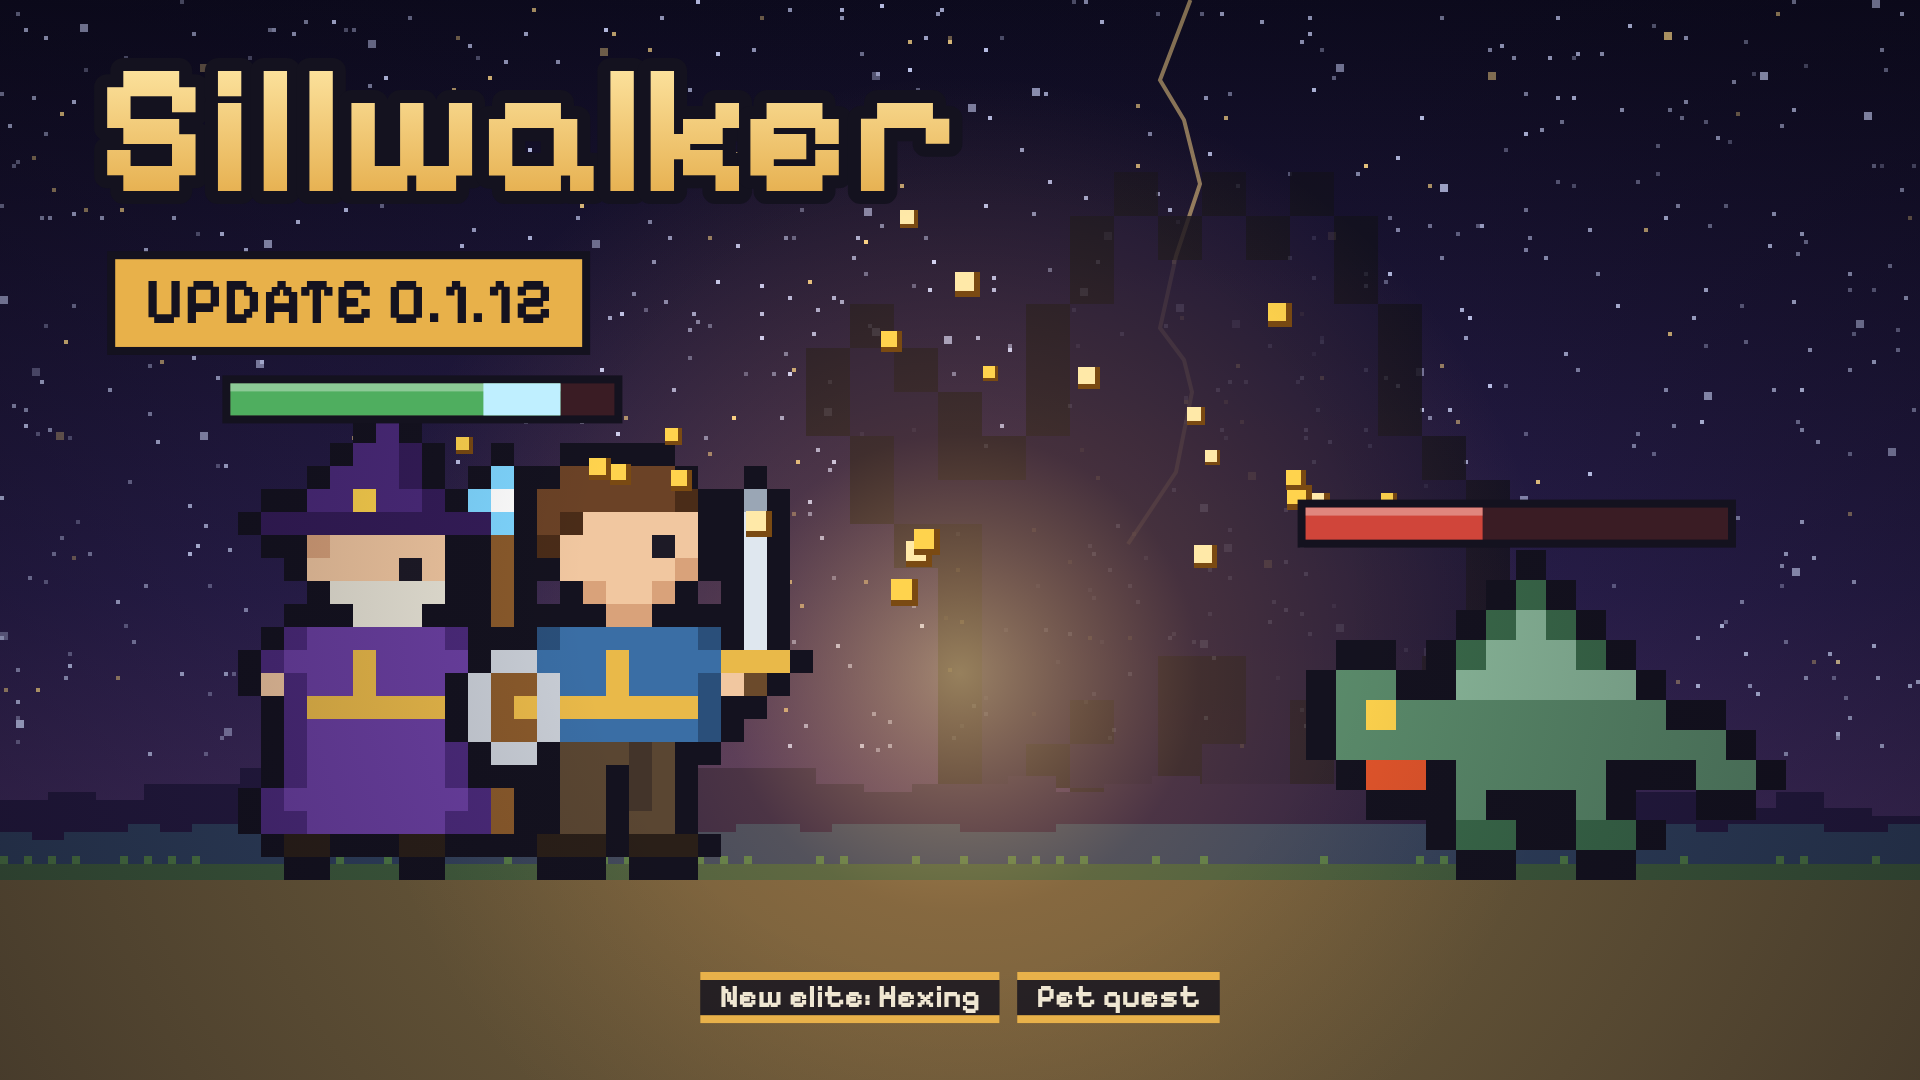
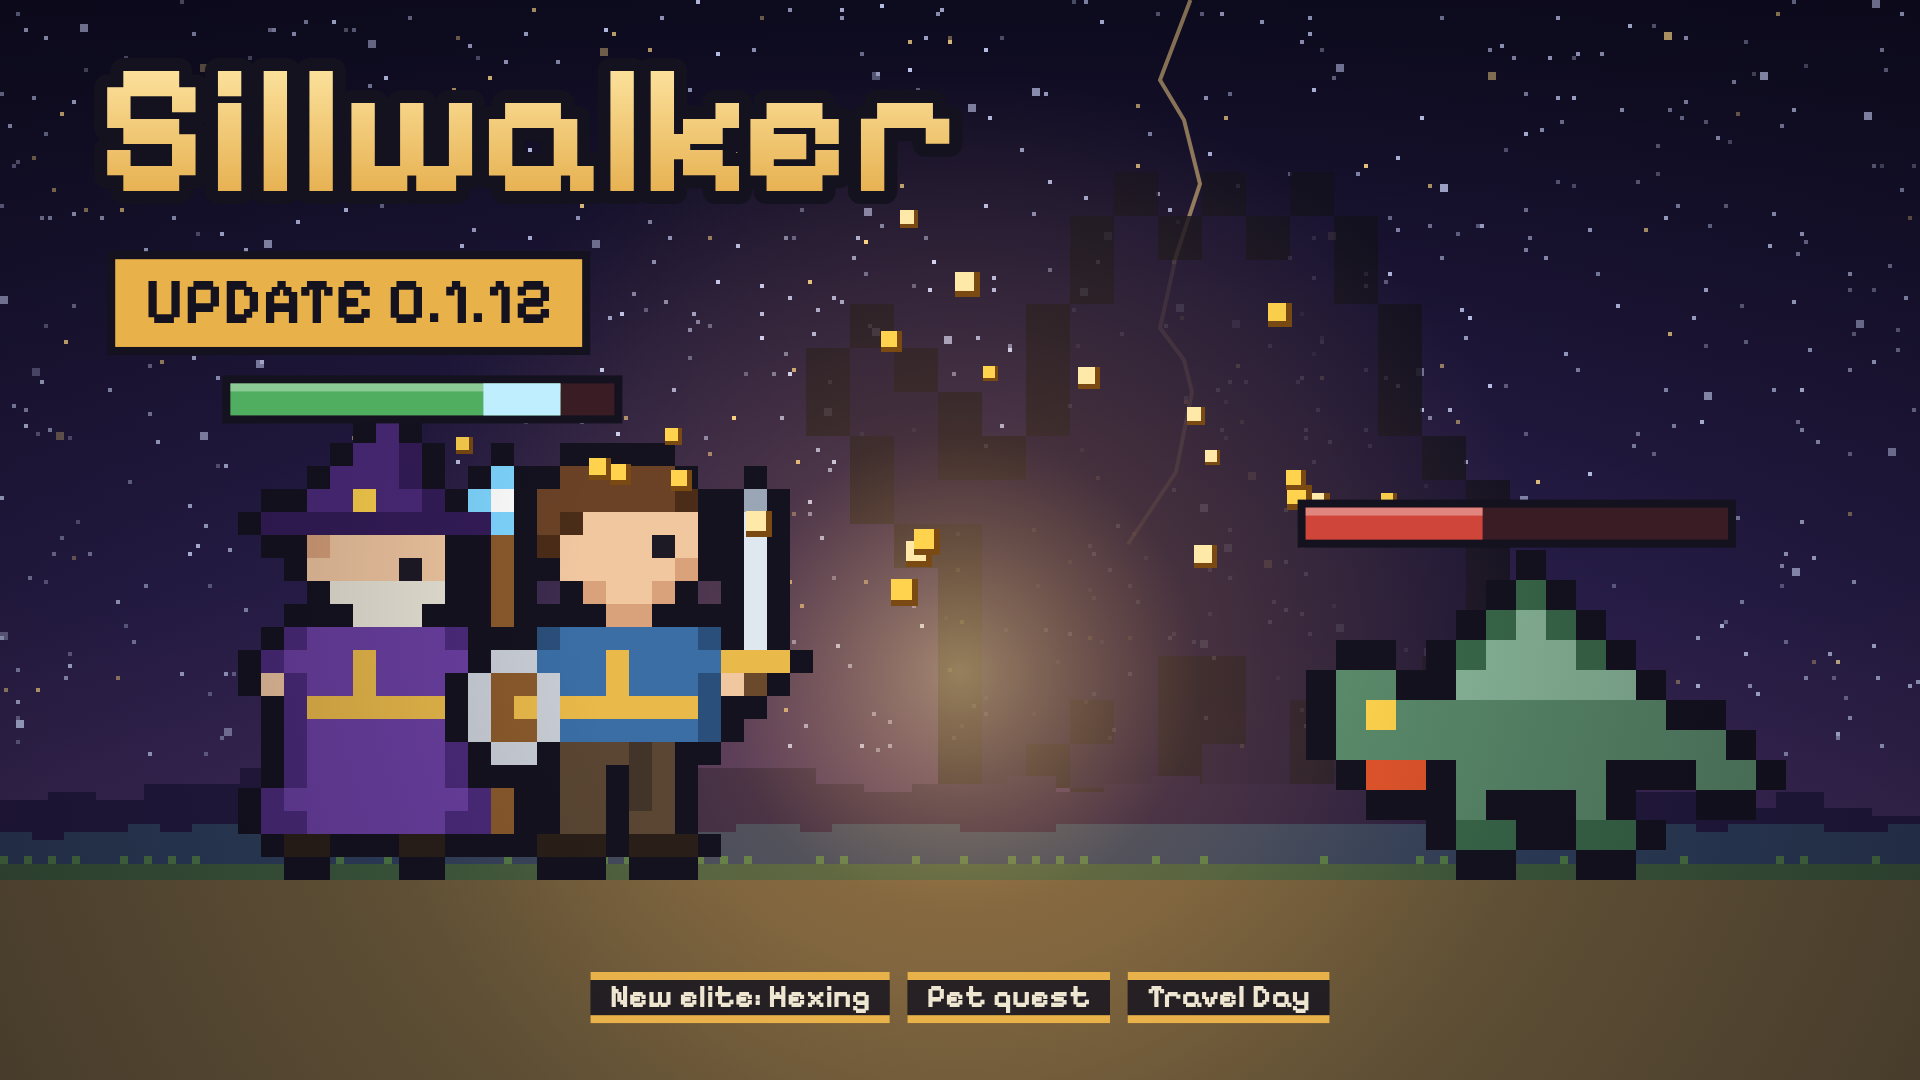
Quoi de neuf (it. 3347) : édition 198, préparation 0.1.12
Claude-Session: https://claude.ai/code/session_01BoV1hVHohF69q4PDskLo8j

Changed region(s): [[0.2812, 0.8861, 0.7188, 0.9472]]

diff --git a/src/renderer/game/news.js b/src/renderer/game/news.js
@@ -952,7 +952,10 @@ const EDITION_196 = [
 const EDITION_197 = [
   "Nouvelle élite, le Maléfique : ses coups peuvent maudire le héros, qui subit alors 15 % de dégâts en plus pendant 3 secondes (la pureté raccourcit la malédiction).",
 ];
-export const NEWS_EDITIONS = [EDITION_1, EDITION_2, EDITION_3, EDITION_4, EDITION_5, EDITION_6, EDITION_7, EDITION_8, EDITION_9, EDITION_10, EDITION_11, EDITION_12, EDITION_13, EDITION_14, EDITION_15, EDITION_16, EDITION_17, EDITION_18, EDITION_19, EDITION_20, EDITION_21, EDITION_22, EDITION_23, EDITION_24, EDITION_25, EDITION_26, EDITION_27, EDITION_28, EDITION_29, EDITION_30, EDITION_31, EDITION_32, EDITION_33, EDITION_34, EDITION_35, EDITION_36, EDITION_37, EDITION_38, EDITION_39, EDITION_40, EDITION_41, EDITION_42, EDITION_43, EDITION_44, EDITION_45, EDITION_46, EDITION_47, EDITION_48, EDITION_49, EDITION_50, EDITION_51, EDITION_52, EDITION_53, EDITION_54, EDITION_55, EDITION_56, EDITION_57, EDITION_58, EDITION_59, EDITION_60, EDITION_61, EDITION_62, EDITION_63, EDITION_64, EDITION_65, EDITION_66, EDITION_67, EDITION_68, EDITION_69, EDITION_70, EDITION_71, EDITION_72, EDITION_73, EDITION_74, EDITION_75, EDITION_76, EDITION_77, EDITION_78, EDITION_79, EDITION_80, EDITION_81, EDITION_82, EDITION_83, EDITION_84, EDITION_85, EDITION_86, EDITION_87, EDITION_88, EDITION_89, EDITION_90, EDITION_91, EDITION_92, EDITION_93, EDITION_94, EDITION_95, EDITION_96, EDITION_97, EDITION_98, EDITION_99, EDITION_100, EDITION_101, EDITION_102, EDITION_103, EDITION_104, EDITION_105, EDITION_106, EDITION_107, EDITION_108, EDITION_109, EDITION_110, EDITION_111, EDITION_112, EDITION_113, EDITION_114, EDITION_115, EDITION_116, EDITION_117, EDITION_118, EDITION_119, EDITION_120, EDITION_121, EDITION_122, EDITION_123, EDITION_124, EDITION_125, EDITION_126, EDITION_127, EDITION_128, EDITION_129, EDITION_130, EDITION_131, EDITION_132, EDITION_133, EDITION_134, EDITION_135, EDITION_136, EDITION_137, EDITION_138, EDITION_139, EDITION_140, EDITION_141, EDITION_142, EDITION_143, EDITION_144, EDITION_145, EDITION_146, EDITION_147, EDITION_148, EDITION_149, EDITION_150, EDITION_151, EDITION_152, EDITION_153, EDITION_154, EDITION_155, EDITION_156, EDITION_157, EDITION_158, EDITION_159, EDITION_160, EDITION_161, EDITION_162, EDITION_163, EDITION_164, EDITION_165, EDITION_166, EDITION_167, EDITION_168, EDITION_169, EDITION_170, EDITION_171, EDITION_172, EDITION_173, EDITION_174, EDITION_175, EDITION_176, EDITION_177, EDITION_178, EDITION_179, EDITION_180, EDITION_181, EDITION_182, EDITION_183, EDITION_184, EDITION_185, EDITION_186, EDITION_187, EDITION_188, EDITION_189, EDITION_190, EDITION_191, EDITION_192, EDITION_193, EDITION_194, EDITION_195, EDITION_196, EDITION_197];
+const EDITION_198 = [
+  "Nouvelle bénédiction du jour, le « Jour des voyages » : les expéditions de tes familiers durent deux fois moins longtemps ce jour-là.",
+];
+export const NEWS_EDITIONS = [EDITION_1, EDITION_2, EDITION_3, EDITION_4, EDITION_5, EDITION_6, EDITION_7, EDITION_8, EDITION_9, EDITION_10, EDITION_11, EDITION_12, EDITION_13, EDITION_14, EDITION_15, EDITION_16, EDITION_17, EDITION_18, EDITION_19, EDITION_20, EDITION_21, EDITION_22, EDITION_23, EDITION_24, EDITION_25, EDITION_26, EDITION_27, EDITION_28, EDITION_29, EDITION_30, EDITION_31, EDITION_32, EDITION_33, EDITION_34, EDITION_35, EDITION_36, EDITION_37, EDITION_38, EDITION_39, EDITION_40, EDITION_41, EDITION_42, EDITION_43, EDITION_44, EDITION_45, EDITION_46, EDITION_47, EDITION_48, EDITION_49, EDITION_50, EDITION_51, EDITION_52, EDITION_53, EDITION_54, EDITION_55, EDITION_56, EDITION_57, EDITION_58, EDITION_59, EDITION_60, EDITION_61, EDITION_62, EDITION_63, EDITION_64, EDITION_65, EDITION_66, EDITION_67, EDITION_68, EDITION_69, EDITION_70, EDITION_71, EDITION_72, EDITION_73, EDITION_74, EDITION_75, EDITION_76, EDITION_77, EDITION_78, EDITION_79, EDITION_80, EDITION_81, EDITION_82, EDITION_83, EDITION_84, EDITION_85, EDITION_86, EDITION_87, EDITION_88, EDITION_89, EDITION_90, EDITION_91, EDITION_92, EDITION_93, EDITION_94, EDITION_95, EDITION_96, EDITION_97, EDITION_98, EDITION_99, EDITION_100, EDITION_101, EDITION_102, EDITION_103, EDITION_104, EDITION_105, EDITION_106, EDITION_107, EDITION_108, EDITION_109, EDITION_110, EDITION_111, EDITION_112, EDITION_113, EDITION_114, EDITION_115, EDITION_116, EDITION_117, EDITION_118, EDITION_119, EDITION_120, EDITION_121, EDITION_122, EDITION_123, EDITION_124, EDITION_125, EDITION_126, EDITION_127, EDITION_128, EDITION_129, EDITION_130, EDITION_131, EDITION_132, EDITION_133, EDITION_134, EDITION_135, EDITION_136, EDITION_137, EDITION_138, EDITION_139, EDITION_140, EDITION_141, EDITION_142, EDITION_143, EDITION_144, EDITION_145, EDITION_146, EDITION_147, EDITION_148, EDITION_149, EDITION_150, EDITION_151, EDITION_152, EDITION_153, EDITION_154, EDITION_155, EDITION_156, EDITION_157, EDITION_158, EDITION_159, EDITION_160, EDITION_161, EDITION_162, EDITION_163, EDITION_164, EDITION_165, EDITION_166, EDITION_167, EDITION_168, EDITION_169, EDITION_170, EDITION_171, EDITION_172, EDITION_173, EDITION_174, EDITION_175, EDITION_176, EDITION_177, EDITION_178, EDITION_179, EDITION_180, EDITION_181, EDITION_182, EDITION_183, EDITION_184, EDITION_185, EDITION_186, EDITION_187, EDITION_188, EDITION_189, EDITION_190, EDITION_191, EDITION_192, EDITION_193, EDITION_194, EDITION_195, EDITION_196, EDITION_197, EDITION_198];
 export const NEWS_ID = NEWS_EDITIONS.length;
 /** Nouveautés des éditions après `seen` (0 : toutes), la plus récente d'abord. */
 export const newsItems = (seen = 0) => NEWS_EDITIONS.slice(Math.max(0, seen)).reverse().flat();

diff --git a/scripts/steam-capsules/make.js b/scripts/steam-capsules/make.js
@@ -21,7 +21,7 @@ const SIZES = [
   ["update-0.1.9", 1920, 1080, "update", { ver: "0.1.9", tags: "Star Day|Relentless elite|Weasel & Hummingbird|Shooting-star quests|Clearer mini mode" }], // (it. 3237)
   ["update-0.1.10", 1920, 1080, "update", { ver: "0.1.10", tags: "Zeal Day|Champions’ Challenge|The Shrike pet|Friendlier mini mode|Clearer translations" }], // (it. 3260, 3273)
   ["update-0.1.11", 1920, 1080, "update", { ver: "0.1.11", tags: "New pets: Wasp, Woodpecker|Pet Party event|Forge Day|Events & blessings counted" }], // (it. 3299, 3302, 3312, 3319)
-  ["update-0.1.12", 1920, 1080, "update", { ver: "0.1.12", tags: "New elite: Hexing|Pet quest" }], // (it. 3342)
+  ["update-0.1.12", 1920, 1080, "update", { ver: "0.1.12", tags: "New elite: Hexing|Pet quest|Travel Day" }], // (it. 3342, 3347)
 ].filter(([name]) => !process.env.ONLY || name === process.env.ONLY); // ONLY=<nom> : une seule image
 app.whenReady().then(async () => {
   fs.mkdirSync(OUT, { recursive: true });

diff --git a/src/renderer/i18n/lang/ru.js b/src/renderer/i18n/lang/ru.js
@@ -2434,4 +2434,5 @@ export default {
   3559: "Экспедиции вдвое короче.",
   3560: "Экспедиции покупаются в Лавке: Псарня исследователей.",
   3561: "Попутного ветра, маленькие исследователи: сегодня дороги короткие!",
+  3562: "Новое благословение дня, «День странствий»: в этот день экспедиции твоих питомцев вдвое короче.",
 };

diff --git a/src/renderer/i18n/keys.js b/src/renderer/i18n/keys.js
@@ -3563,5 +3563,6 @@ export const KEYS = [
   "Jour des voyages",
   "Expéditions deux fois plus courtes.",
   "Les expéditions s’achètent dans la boutique : le Chenil des explorateurs.",
-  "Bon vent, petits explorateurs : les routes sont courtes aujourd’hui !"
+  "Bon vent, petits explorateurs : les routes sont courtes aujourd’hui !",
+  "Nouvelle bénédiction du jour, le « Jour des voyages » : les expéditions de tes familiers durent deux fois moins longtemps ce jour-là."
 ];

diff --git a/src/renderer/i18n/lang/pt.js b/src/renderer/i18n/lang/pt.js
@@ -2434,4 +2434,5 @@ export default {
   3559: "Expedições duas vezes mais curtas.",
   3560: "As expedições são compradas na Loja: o Canil dos exploradores.",
   3561: "Bons ventos, pequenos exploradores: hoje os caminhos são curtos!",
+  3562: "Nova bênção do dia, o “Dia das viagens”: nesse dia, as expedições dos seus mascotes duram metade do tempo.",
 };

diff --git a/src/renderer/i18n/lang/es.js b/src/renderer/i18n/lang/es.js
@@ -2434,4 +2434,5 @@ export default {
   3559: "Expediciones el doble de cortas.",
   3560: "Las expediciones se compran en la Tienda: la Perrera de exploradores.",
   3561: "¡Buen viento, pequeños exploradores: hoy los caminos son cortos!",
+  3562: "Nueva bendición del día, el «Día de los viajes»: ese día las expediciones de tus mascotas duran la mitad.",
 };

diff --git a/src/renderer/i18n/lang/ko.js b/src/renderer/i18n/lang/ko.js
@@ -2434,4 +2434,5 @@ export default {
   3559: "원정 시간이 절반으로 줄어듭니다.",
   3560: "원정은 상점에서 살 수 있습니다: 탐험가의 개집.",
   3561: "잘 다녀와, 꼬마 탐험가들: 오늘은 길이 짧아!",
+  3562: "새 오늘의 축복 「여행의 날」: 그날은 펫의 원정 시간이 절반으로 줄어듭니다.",
 };

diff --git a/src/renderer/i18n/lang/de.js b/src/renderer/i18n/lang/de.js
@@ -2434,4 +2434,5 @@ export default {
   3559: "Expeditionen dauern nur halb so lang.",
   3560: "Expeditionen kaufst du im Laden: den Zwinger der Entdecker.",
   3561: "Gute Reise, kleine Entdecker: Heute sind die Wege kurz!",
+  3562: "Neuer Segen des Tages, der „Tag der Reisen“: An diesem Tag dauern die Expeditionen deiner Haustiere nur halb so lang.",
 };

diff --git a/src/renderer/i18n/lang/ja.js b/src/renderer/i18n/lang/ja.js
@@ -2434,4 +2434,5 @@ export default {
   3559: "遠征の時間が半分に。",
   3560: "遠征はショップで買える：探検家の犬小屋。",
   3561: "いってらっしゃい、小さな探検家たち：今日は道が短いよ！",
+  3562: "新しい日替わりの祝福「旅の日」：その日はペットの遠征時間が半分に。",
 };

diff --git a/src/renderer/i18n/lang/pl.js b/src/renderer/i18n/lang/pl.js
@@ -2434,4 +2434,5 @@ export default {
   3559: "Wyprawy trwają o połowę krócej.",
   3560: "Wyprawy kupisz w Sklepie: Psiarnia odkrywców.",
   3561: "Pomyślnych wiatrów, mali odkrywcy: dziś drogi są krótkie!",
+  3562: "Nowe błogosławieństwo dnia, „Dzień podróży”: tego dnia wyprawy twoich chowańców trwają o połowę krócej.",
 };

diff --git a/src/renderer/i18n/lang/en.js b/src/renderer/i18n/lang/en.js
@@ -2434,4 +2434,5 @@ export default {
   3559: "Expeditions take half as long.",
   3560: "Expeditions are bought in the Shop: the Explorers' Kennel.",
   3561: "Fair winds, little explorers: the roads are short today!",
+  3562: "New daily blessing, “Travel Day”: your pets’ expeditions take half as long that day.",
 };

diff --git a/src/renderer/i18n/lang/zh.js b/src/renderer/i18n/lang/zh.js
@@ -2434,4 +2434,5 @@ export default {
   3559: "远征时间减半。",
   3560: "远征在商店购买：探险家犬舍。",
   3561: "一路顺风，小探险家们：今天的路很短！",
+  3562: "新的每日祝福「旅行日」：当天宠物的远征时间减半。",
 };
